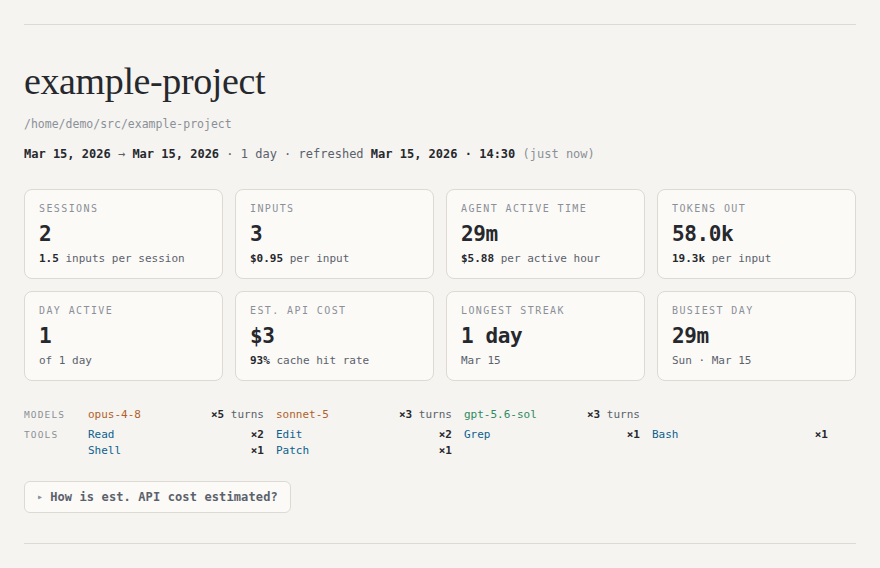
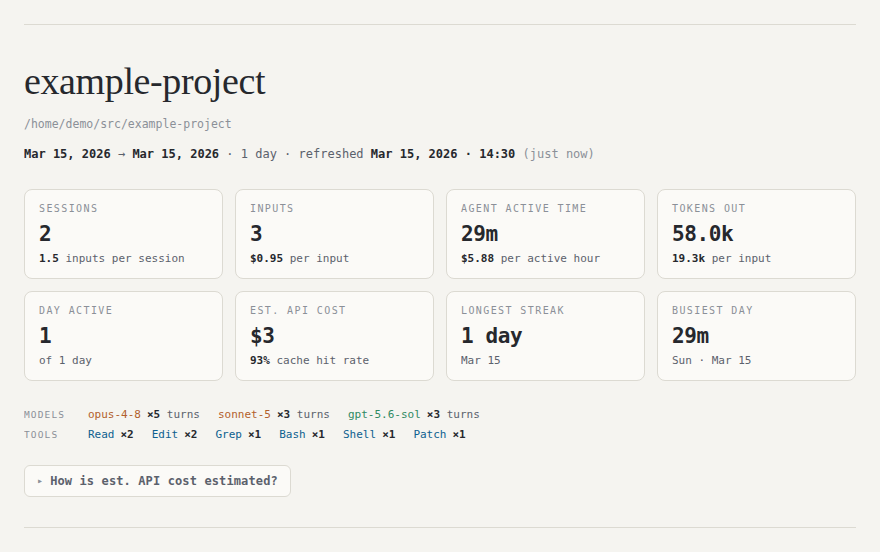
Put each count directly after its name in the hero lines
The hero lines copied the usage readout's fixed 176px cells, which
pushed each count to the far edge of its cell and left a gap after
short names. Each item is now the name followed by its count, and items
flow and wrap. The project-overview README image is regenerated.

Assisted-by: Claude Code

diff --git a/generate_site.py b/generate_site.py
@@ -1228,15 +1228,14 @@ h1{font-family:var(--serif);font-size:38px;font-weight:500;letter-spacing:-.01em
   overflow:hidden;text-overflow:ellipsis}
 .stat .d b{color:var(--ink);font-weight:600}
 /* model turns, tool counts, and parser notes under the tiles, in the usage readout's
-   form (a label column and fixed-width cells, name left and count right) rather
-   than badges, which suggested something to click. Cells wrap in rows of the same
-   width, so the columns stay aligned. */
+   form (a label column, then the items) rather than badges, which suggested something
+   to click. Each item is its name followed by its count; items flow and wrap. */
 .meta{margin-top:26px;font-size:11px;line-height:16px;color:var(--dim)}
 .meta-line{display:flex;align-items:flex-start}
 .meta-line+.meta-line{margin-top:4px}
 .meta .uro-k{flex:0 0 64px}
-.meta-cells{display:flex;flex-wrap:wrap;gap:0 12px;min-width:0}
-.meta .ui{margin-right:0}
+.meta-cells{display:flex;flex-wrap:wrap;gap:0 18px;min-width:0}
+.mc{display:inline-flex;gap:6px;white-space:nowrap}
 .meta b{color:var(--ink);font-weight:600}
 .meta .mdl,.meta .tn{color:var(--machine)}
 .meta .mdl.fam-claude{color:var(--claude)}
@@ -2320,13 +2319,13 @@ def render(tl, home=None, refreshed_at=None):
         cells = []
         for m in real_models:
             model_turns = s["models"][m]
-            cells.append(f'<span class="ui">{_model_span(m)}<span>'
+            cells.append(f'<span class="mc">{_model_span(m)}<span>'
                          f'<b>&times;{model_turns}</b> turn{_s(model_turns)}</span></span>')
         meta_lines.append(meta_line(
             "models", cells,
             "Assistant turns attributed to this model; not sessions"))
     if s["tools"]:
-        cells = [f'<span class="ui"><span class="tn">{esc(k)}</span>'
+        cells = [f'<span class="mc"><span class="tn">{esc(k)}</span>'
                  f'<span><b>&times;{v}</b></span></span>'
                  for k, v in list(s["tools"].items())[:6]]
         meta_lines.append(meta_line("tools", cells))

diff --git a/tests/test_transcript_fixtures.py b/tests/test_transcript_fixtures.py
@@ -250,14 +250,14 @@ class TranscriptFixtureTests(unittest.TestCase):
         self.assertIn(
             'title="Assistant turns attributed to this model; not sessions"',
             page)
-        # The hero's models and tools are readout lines (a label and fixed
-        # cells with the name left and the count right), not badges. The
-        # fixture has one Shell call, so both the hero cell and the per-turn
-        # tool readout exercise the name-before-count × syntax and shared color.
+        # The hero's models and tools are readout lines (a label, then each
+        # name followed by its count), not badges. The fixture has one Shell
+        # call, so both the hero item and the per-turn tool readout exercise
+        # the name-before-count × syntax and shared color.
         self.assertIn('<span class="uro-k">models</span>', page)
         self.assertIn('<span><b>&times;3</b> turns</span></span>', page)
         self.assertIn(
-            '<span class="ui"><span class="tn">Shell</span>'
+            '<span class="mc"><span class="tn">Shell</span>'
             '<span><b>&times;1</b></span></span>', page)
         self.assertNotIn('class="chip"', page)
         self.assertIn(
